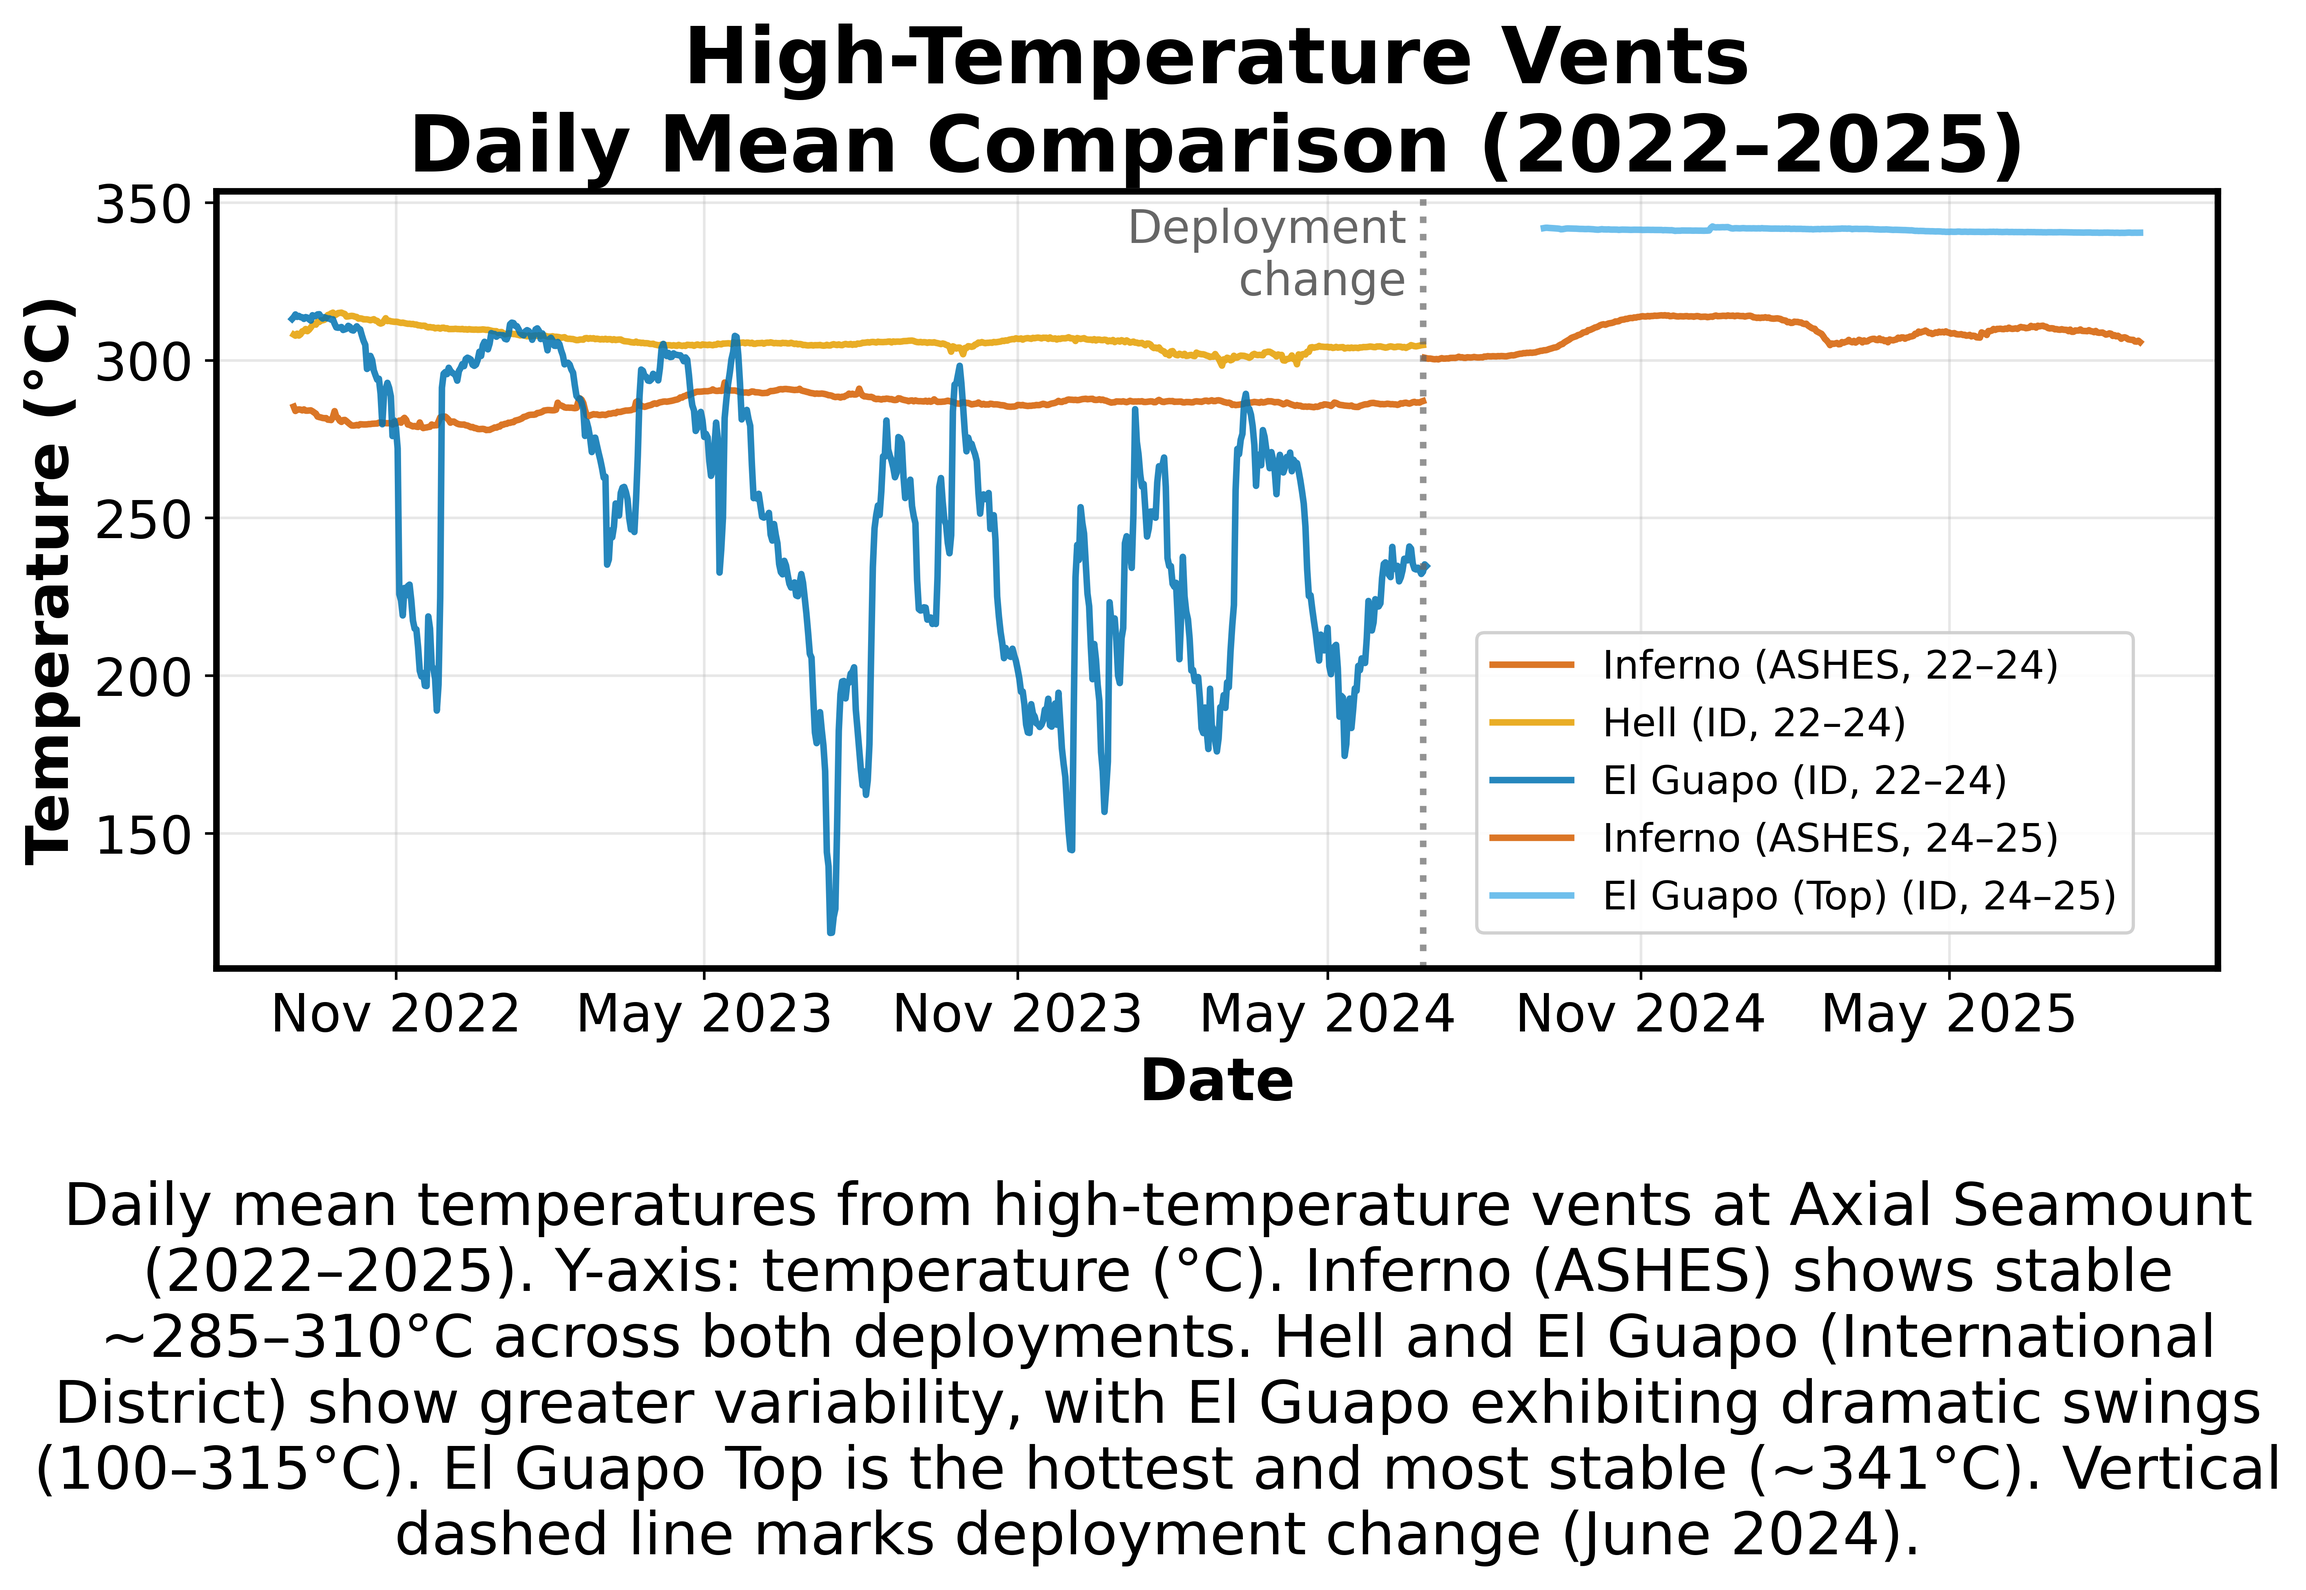
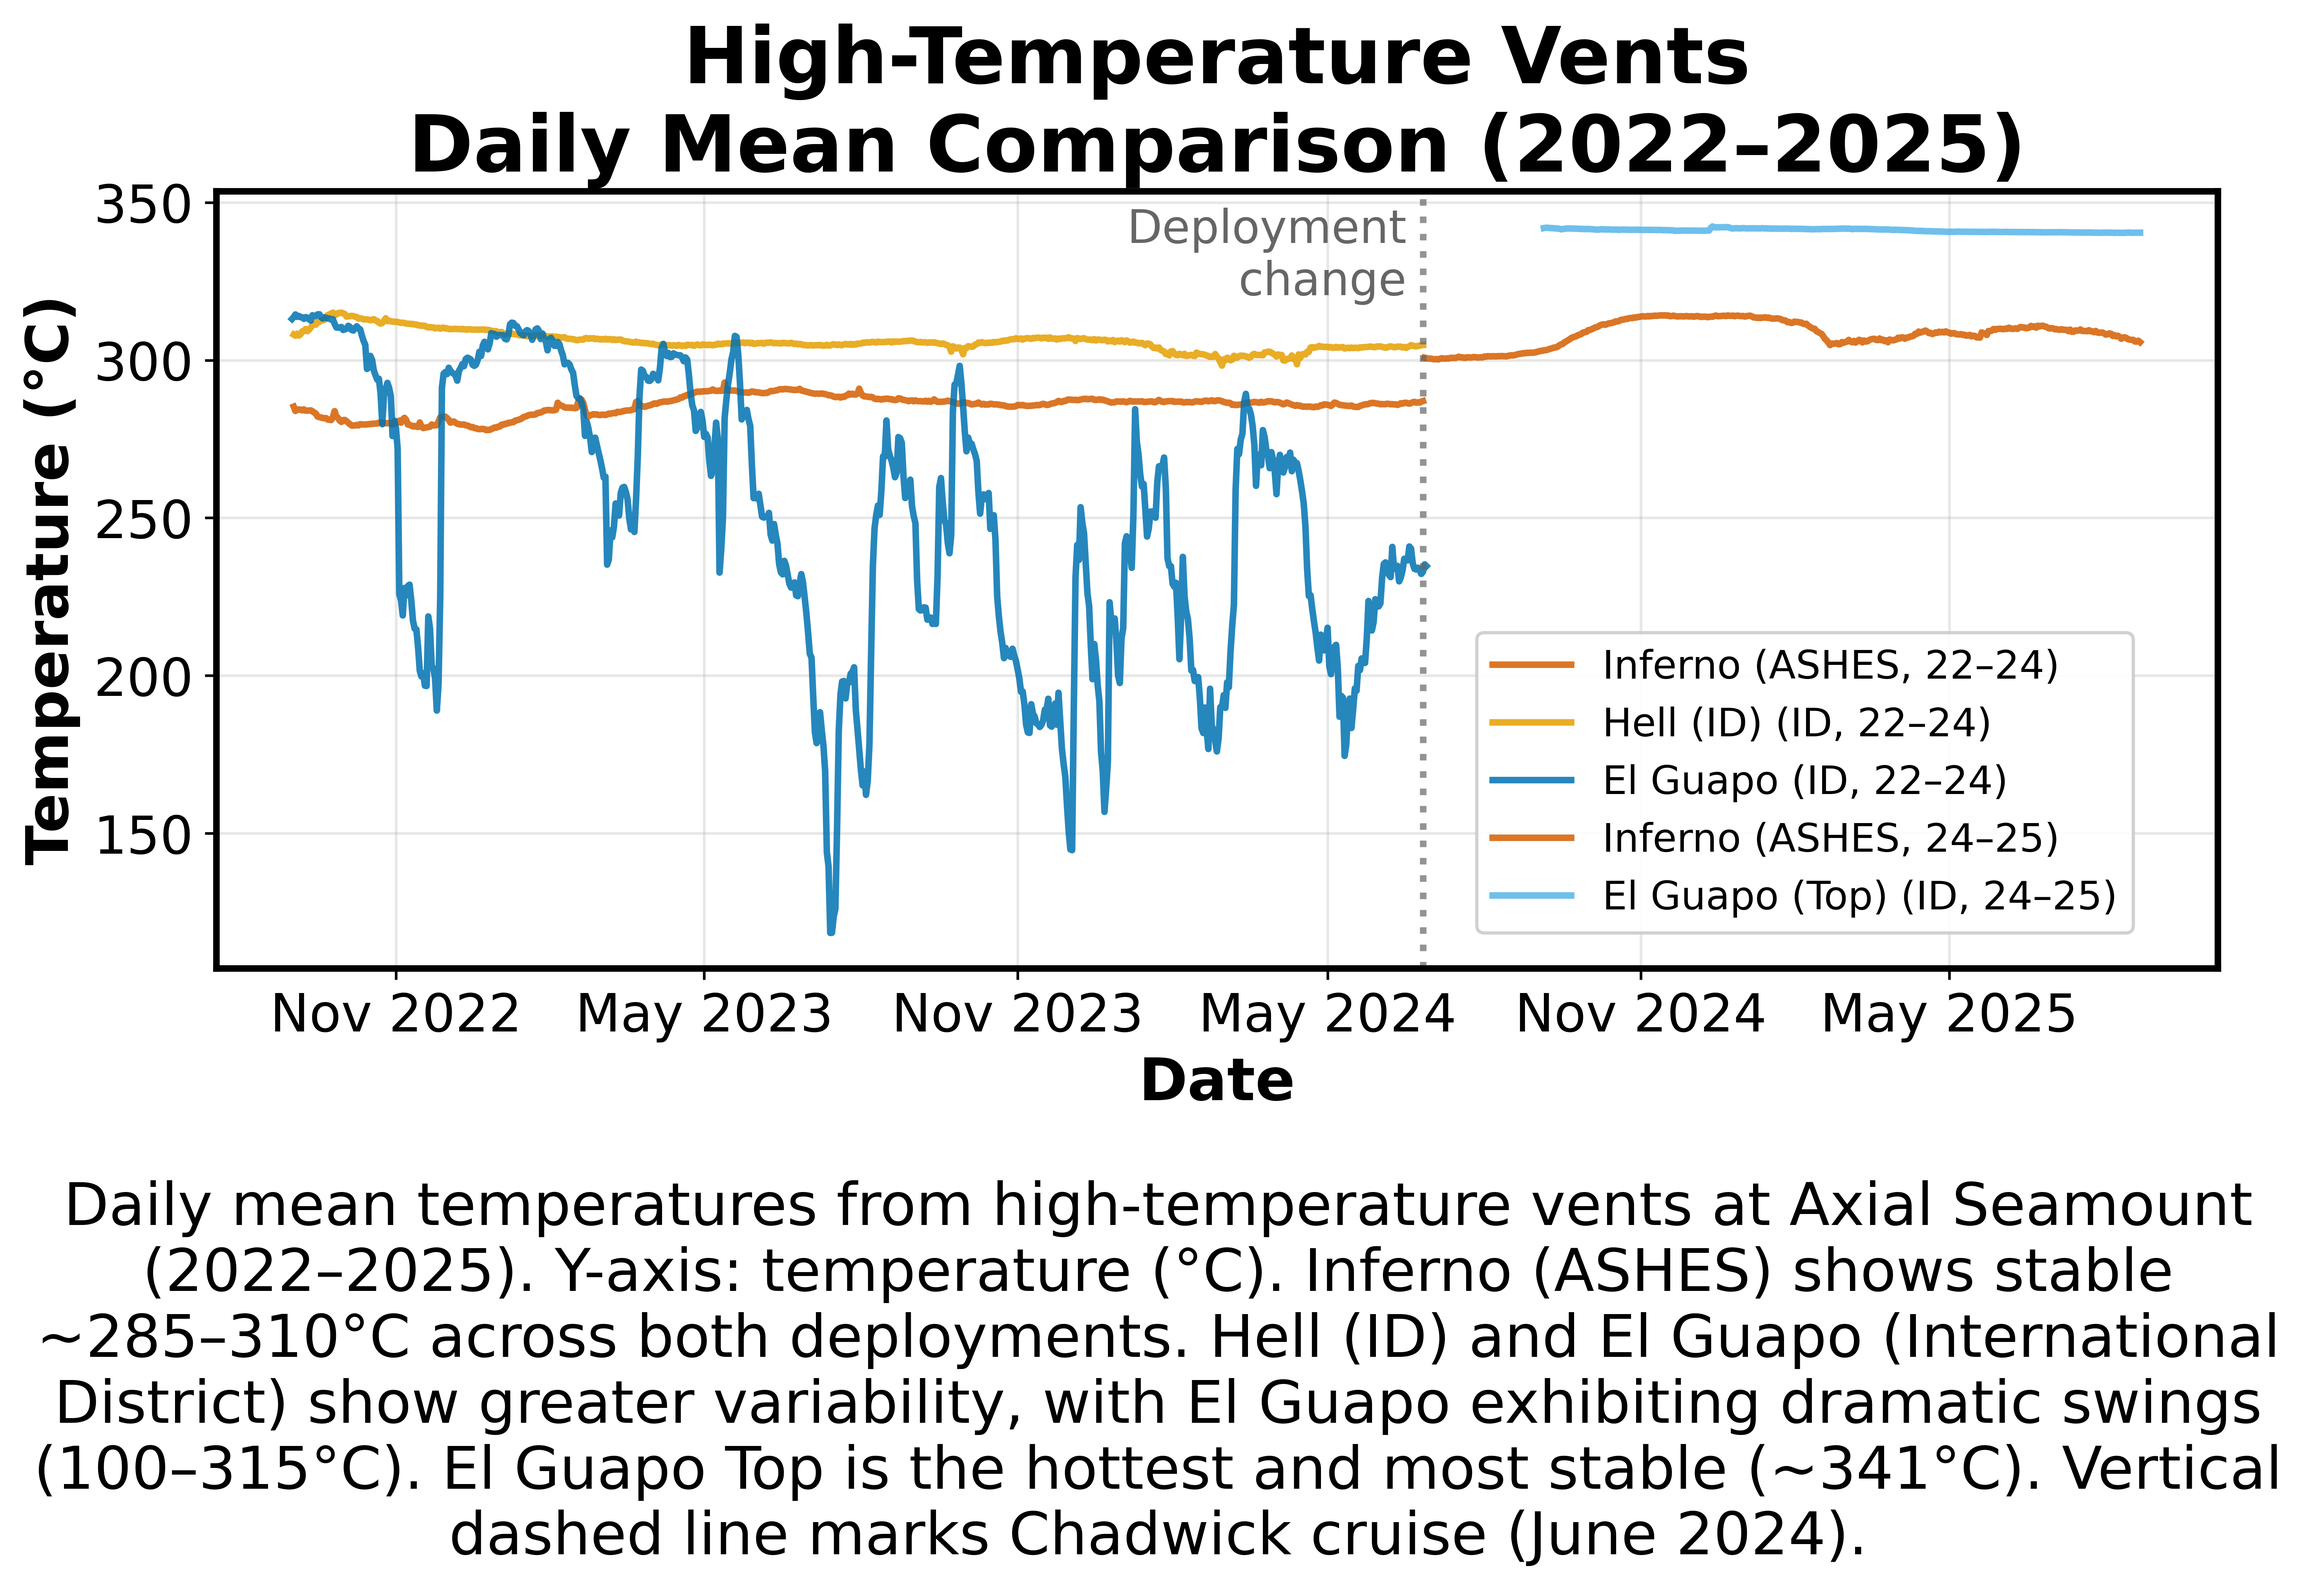
Distinguish Hell vents at ASHES vs International District
Hell exists as separate vents in both fields. Renamed to:
- Hell (ID): International District, MISO 2017-019, ~305°C
- Hell (ASHES): ASHES field, MISO 2023-002, ~57°C

Updated VENT_COLORS, POSTER_STYLE, and figure captions.

Changed region(s): [[0.0311, 0.8087, 0.9966, 0.8709], [0.1869, 0.9331, 0.8097, 0.9953], [0.7474, 0.4354, 0.872, 0.4666]]

diff --git a/survey.py b/survey.py
@@ -67,7 +67,7 @@ INSTRUMENTS = [
     {
         "file": DATA_2022 / "MISOTEMP_2017-019_Axial2022_hel.csv",
         "instrument": "MISO 2017-019",
-        "vent": "Hell",
+        "vent": "Hell (ID)",
         "field": "International District",
         "deployment": "2022-2024",
         "format": "miso_2022",
@@ -100,7 +100,7 @@ INSTRUMENTS = [
     {
         "file": DATA_2024 / "HiT_2023-002_Axial_2024_Deployment.csv",
         "instrument": "MISO 2023-002",
-        "vent": "Hell",
+        "vent": "Hell (ASHES)",
         "field": "ASHES",
         "deployment": "2024-2025",
         "format": "hit_A",  # idx#,DateTime,J-Type,IntTemp,...
@@ -147,7 +147,8 @@ INSTRUMENTS = [
 # Colorblind-safe palette (Okabe-Ito)
 VENT_COLORS = {
     "Inferno": "#D55E00",      # Vermillion
-    "Hell": "#E69F00",         # Orange
+    "Hell (ID)": "#E69F00",    # Orange - International District
+    "Hell (ASHES)": "#F0E442", # Yellow - ASHES field
     "El Guapo": "#0072B2",     # Blue
     "El Guapo (Top)": "#56B4E9",  # Sky blue
     "Virgin": "#CC79A7",       # Reddish purple
@@ -727,9 +728,9 @@ def fig_hightemp_comparison(records, summary, fig_path):
     caption = (
         "Daily mean temperatures from high-temperature vents at Axial Seamount (2022–2025). "
         "Y-axis: temperature (°C). Inferno (ASHES) shows stable ~285–310°C across both deployments. "
-        "Hell and El Guapo (International District) show greater variability, with El Guapo "
+        "Hell (ID) and El Guapo (International District) show greater variability, with El Guapo "
         "exhibiting dramatic swings (100–315°C). El Guapo Top is the hottest and most stable (~341°C). "
-        "Vertical dashed line marks deployment change (June 2024)."
+        "Vertical dashed line marks Chadwick cruise (June 2024)."
     )
     add_figure_caption(fig, caption, fontsize=POSTER_CAPTION_SIZE)
 
@@ -749,7 +750,7 @@ def fig_poster_bpr(records, summary, bpr, fig_path, tmpsf=None):
     POSTER_STYLE = {
         ("Inferno", "2022-2024"):      {"color": "#D55E00", "ls": "-",  "lw": POSTER_LINE_WIDTH, "label": "Inferno (ASHES, 22–24)"},
         ("Inferno", "2024-2025"):      {"color": "#D55E00", "ls": "--", "lw": POSTER_LINE_WIDTH, "label": "Inferno (ASHES, 24–25)"},
-        ("Hell", "2022-2024"):         {"color": "#E69F00", "ls": "-",  "lw": POSTER_LINE_WIDTH, "label": "Hell (ID, 22–24)"},
+        ("Hell (ID)", "2022-2024"):    {"color": "#E69F00", "ls": "-",  "lw": POSTER_LINE_WIDTH, "label": "Hell (ID, 22–24)"},
         ("El Guapo", "2022-2024"):     {"color": "#0072B2", "ls": "-",  "lw": POSTER_LINE_WIDTH, "label": "El Guapo (ID, 22–24)"},
         ("El Guapo (Top)", "2024-2025"): {"color": "#56B4E9", "ls": "--", "lw": POSTER_LINE_WIDTH, "label": "El Guapo Top (ID, 24–25)"},
     }
